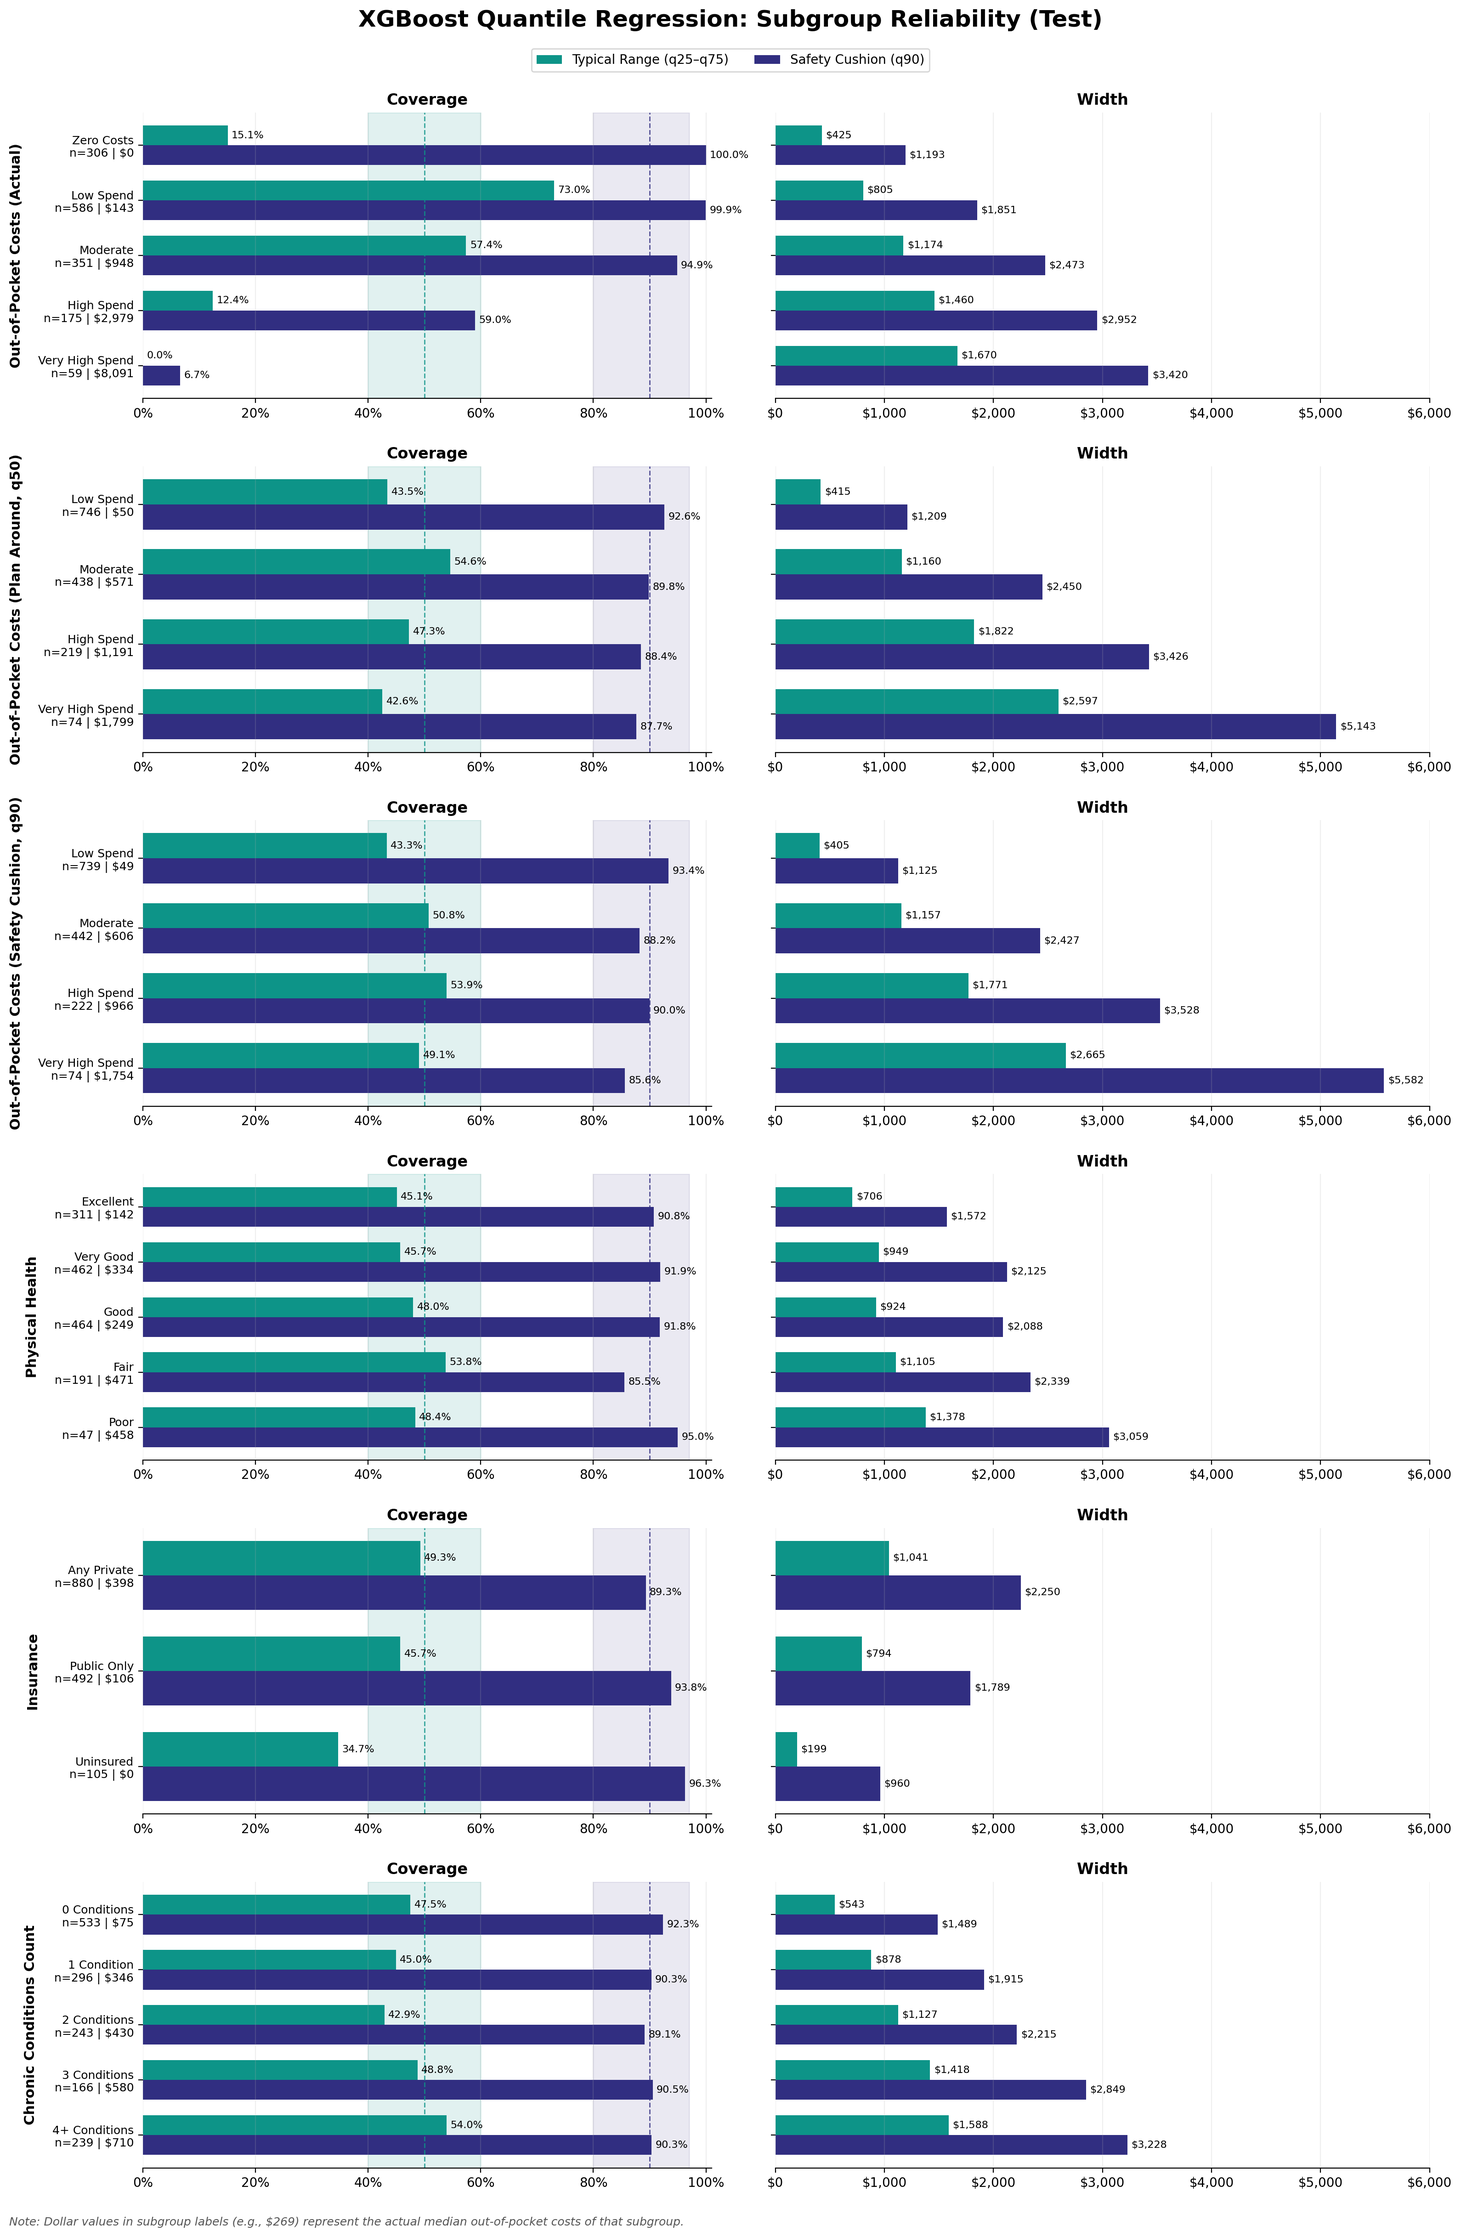
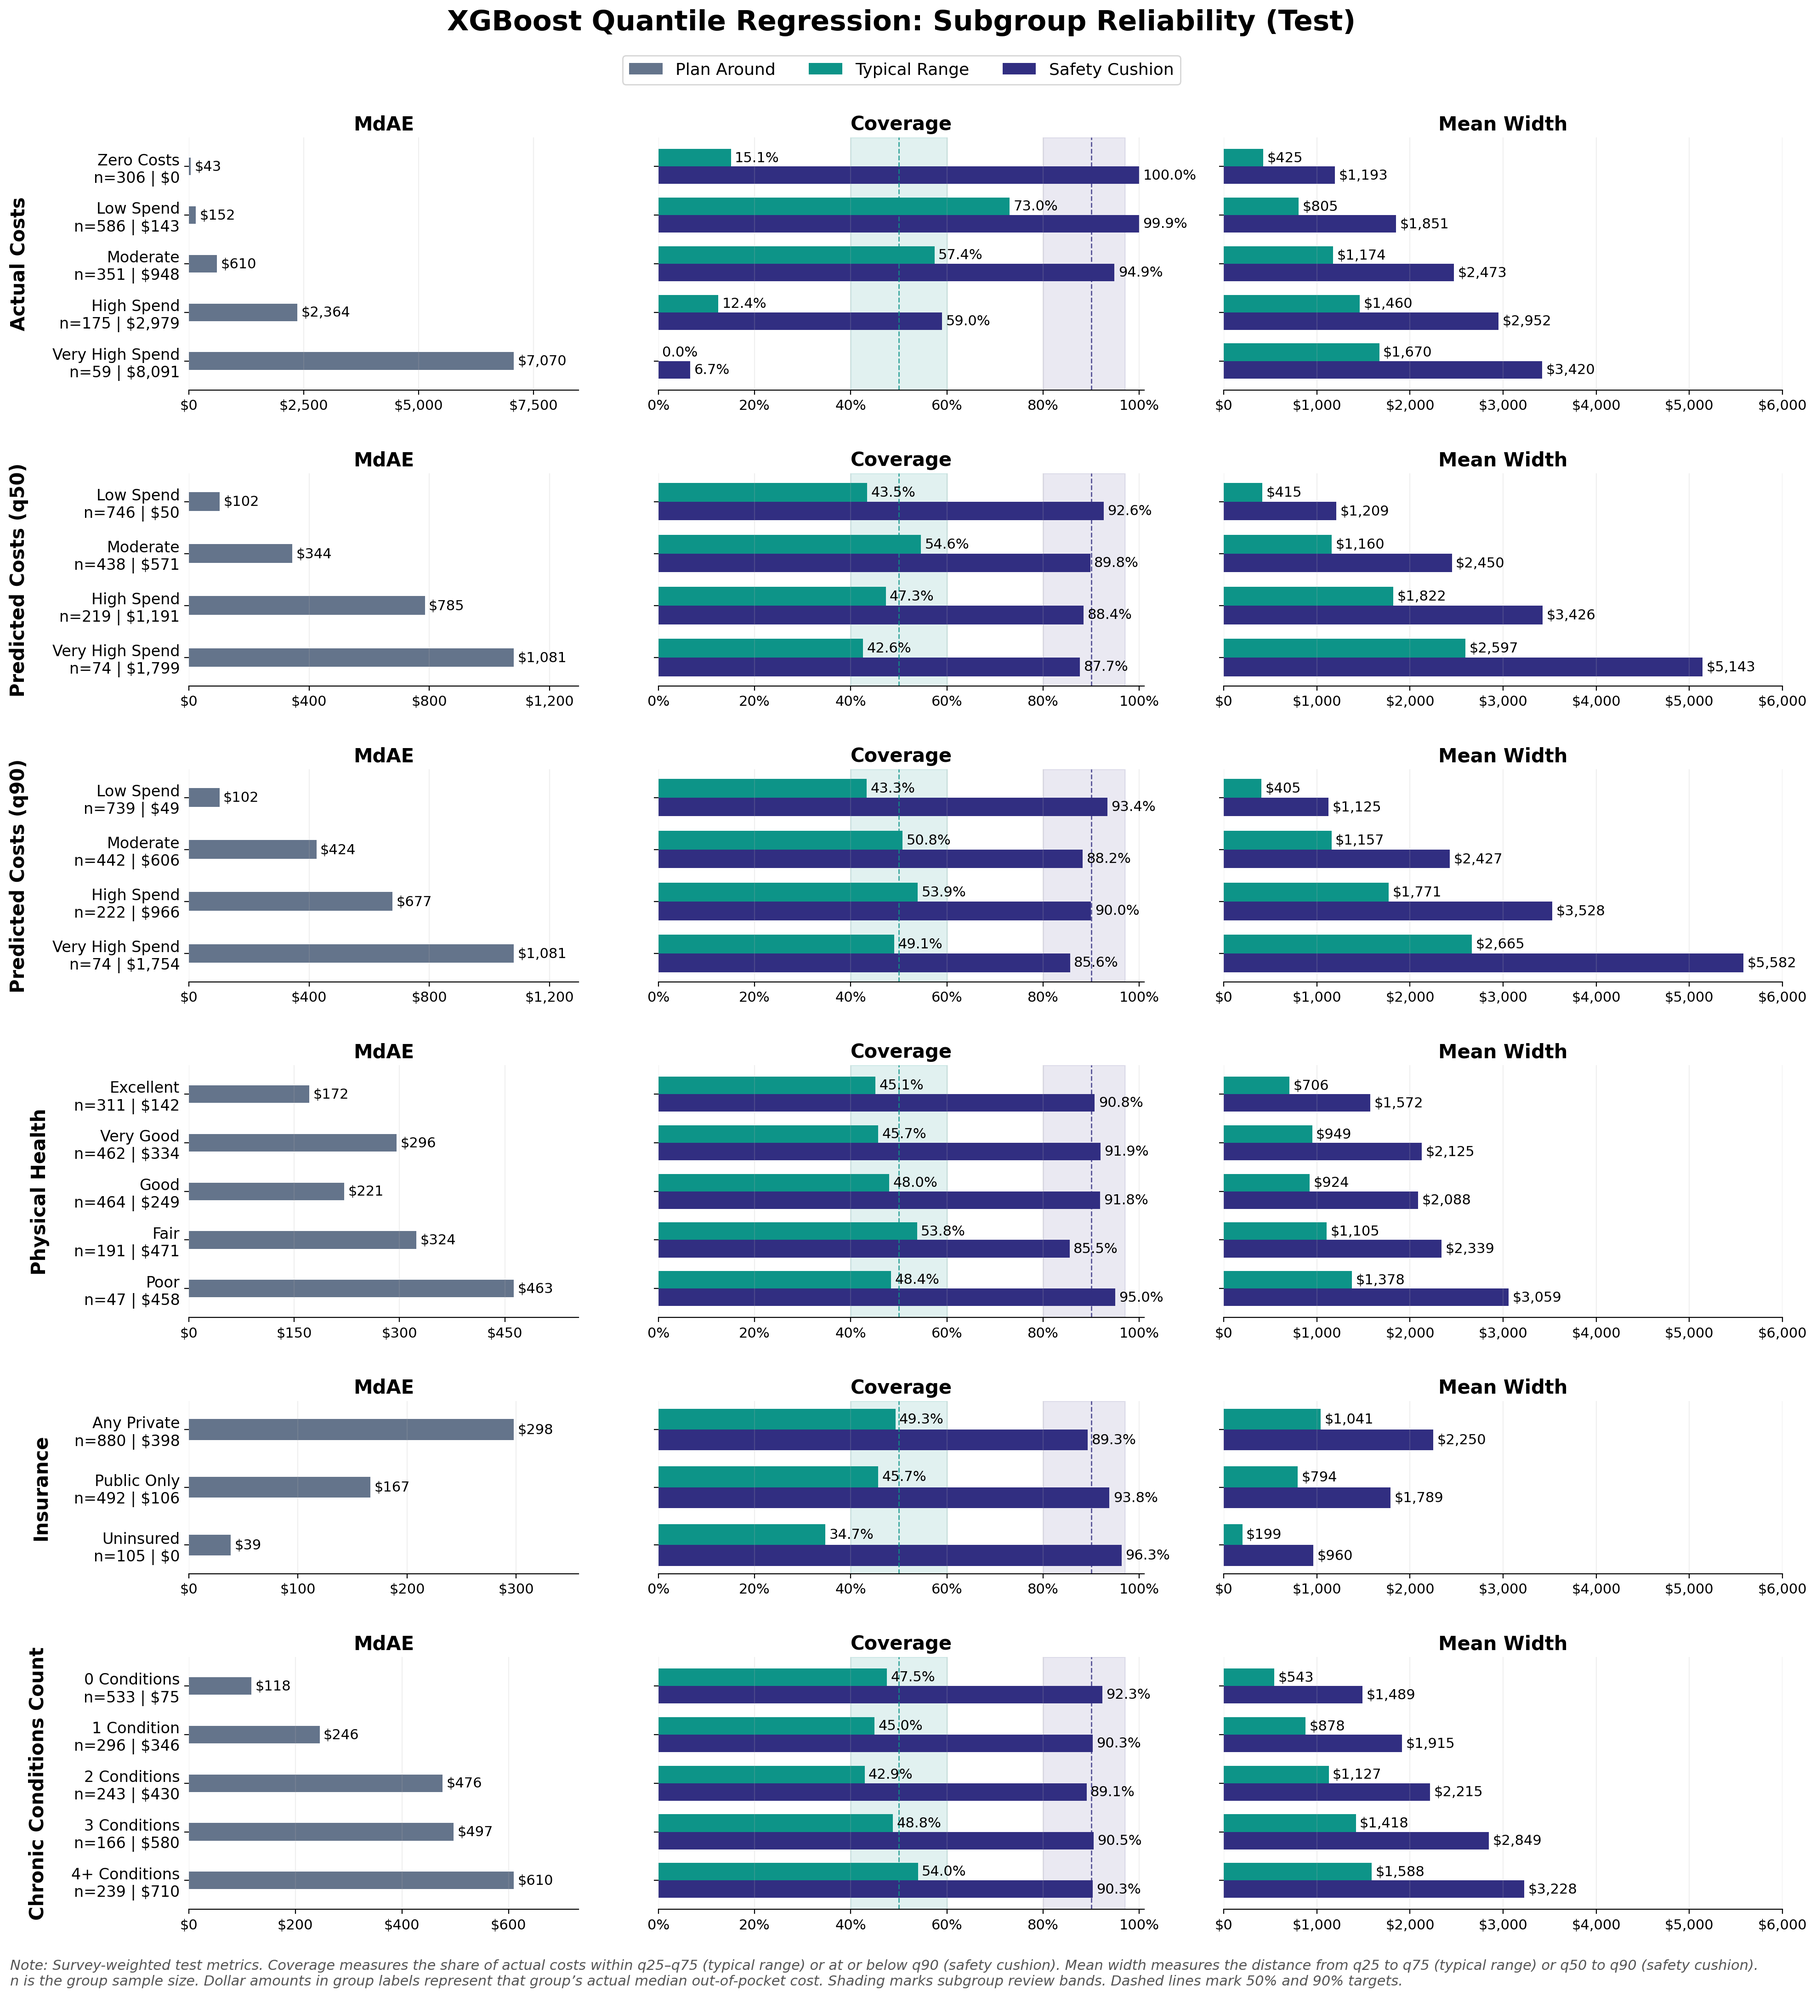
docs(eval): refresh final model subgroup plots
Refresh reliability and fairness figures with three metric columns,
larger text, and improved label spacing.

diff --git a/notebooks/2_modeling.py b/notebooks/2_modeling.py
@@ -2718,6 +2718,17 @@ def plot_quantile_subgroup_performance(
     # Add footnote
     # Compute final layout, then align footnote with the first subplot's leftmost label
     fig.canvas.draw()
+    if include_plan_around:
+        # Reserve space for group labels and move dimension labels partway inward.
+        label_space = 0.25 / fig.get_figwidth()
+        for ax in axes[:, 0]:
+            label_anchor = ax.yaxis.label.get_transform().transform(ax.yaxis.label.get_position())
+            label_anchor = fig.transFigure.inverted().transform(label_anchor)
+            label_anchor[0] += 0.15 / fig.get_figwidth()
+            position = ax.get_position()
+            ax.set_position([position.x0 + label_space, position.y0, position.width - label_space, position.height])
+            ax.yaxis.set_label_coords(*label_anchor, transform=fig.transFigure)
+        fig.canvas.draw()
     footnote_x = axes[0, 0].get_tightbbox(fig.canvas.get_renderer()).transformed(fig.transFigure.inverted()).x0
 
     # Add footnote at the bottom, aligned with the leftmost label/title
